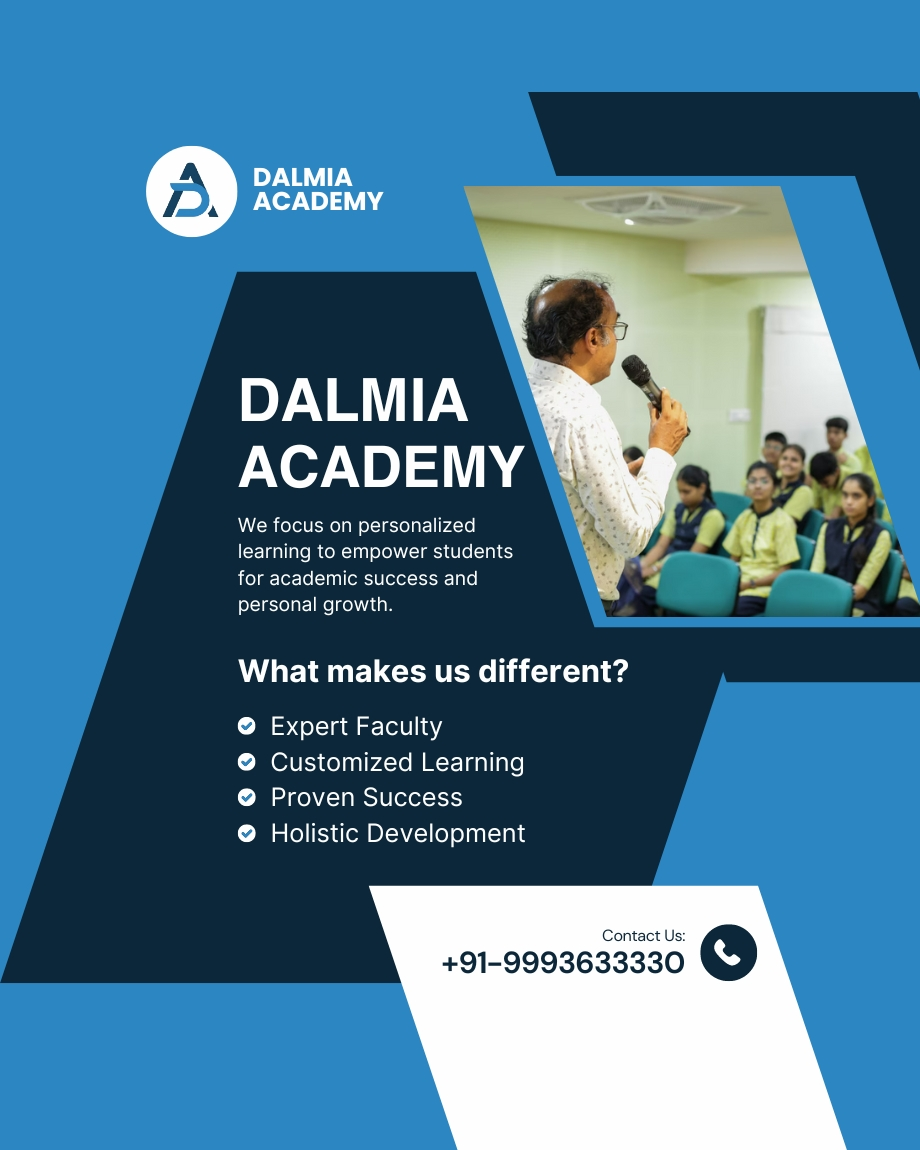
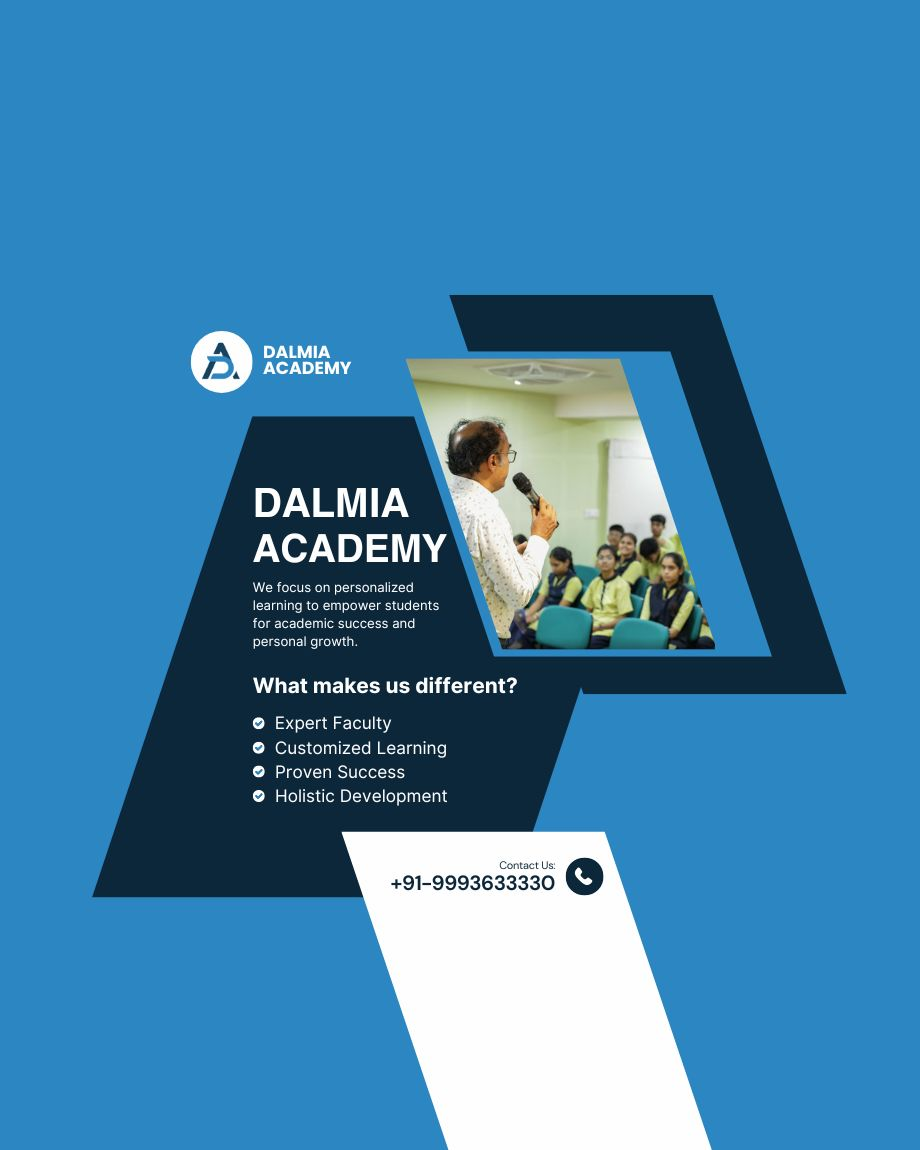
lcp corrected

diff --git a/index.html b/index.html
@@ -129,7 +129,7 @@
 				<div class="entry-header p-relative over-hidden">
 					<div id="hero_image" class="p-absolute dsn-hero-parallax-img over-hidden" data-dsn-ajax="img"
 						data-overlay="1">
-						<img src="assets/img/poster/poster-8.jpg" class="cover-bg-img transform-3d" alt=""/>
+						<img src="assets/img/poster/poster-9.jpg" class="cover-bg-img transform-3d" alt=""/>
 					</div>
 					<div id="hero_content" class="d-flex p-relative h-100 dsn-hero-parallax-title container align-items-center">
 						<div class="content p-relative ">
